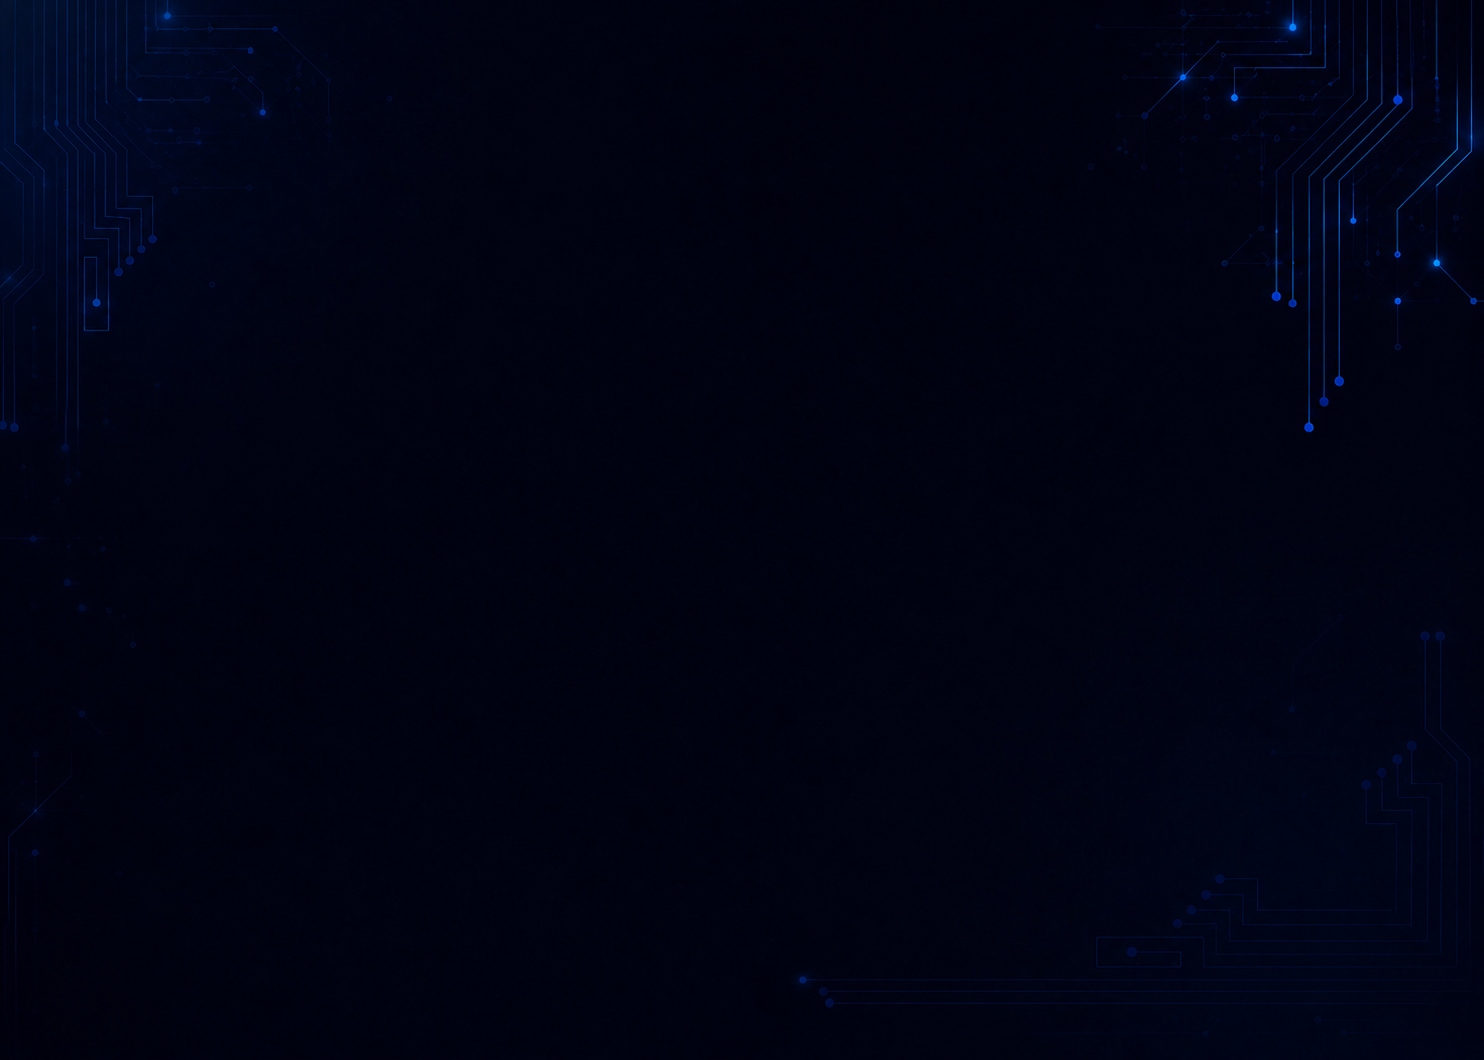
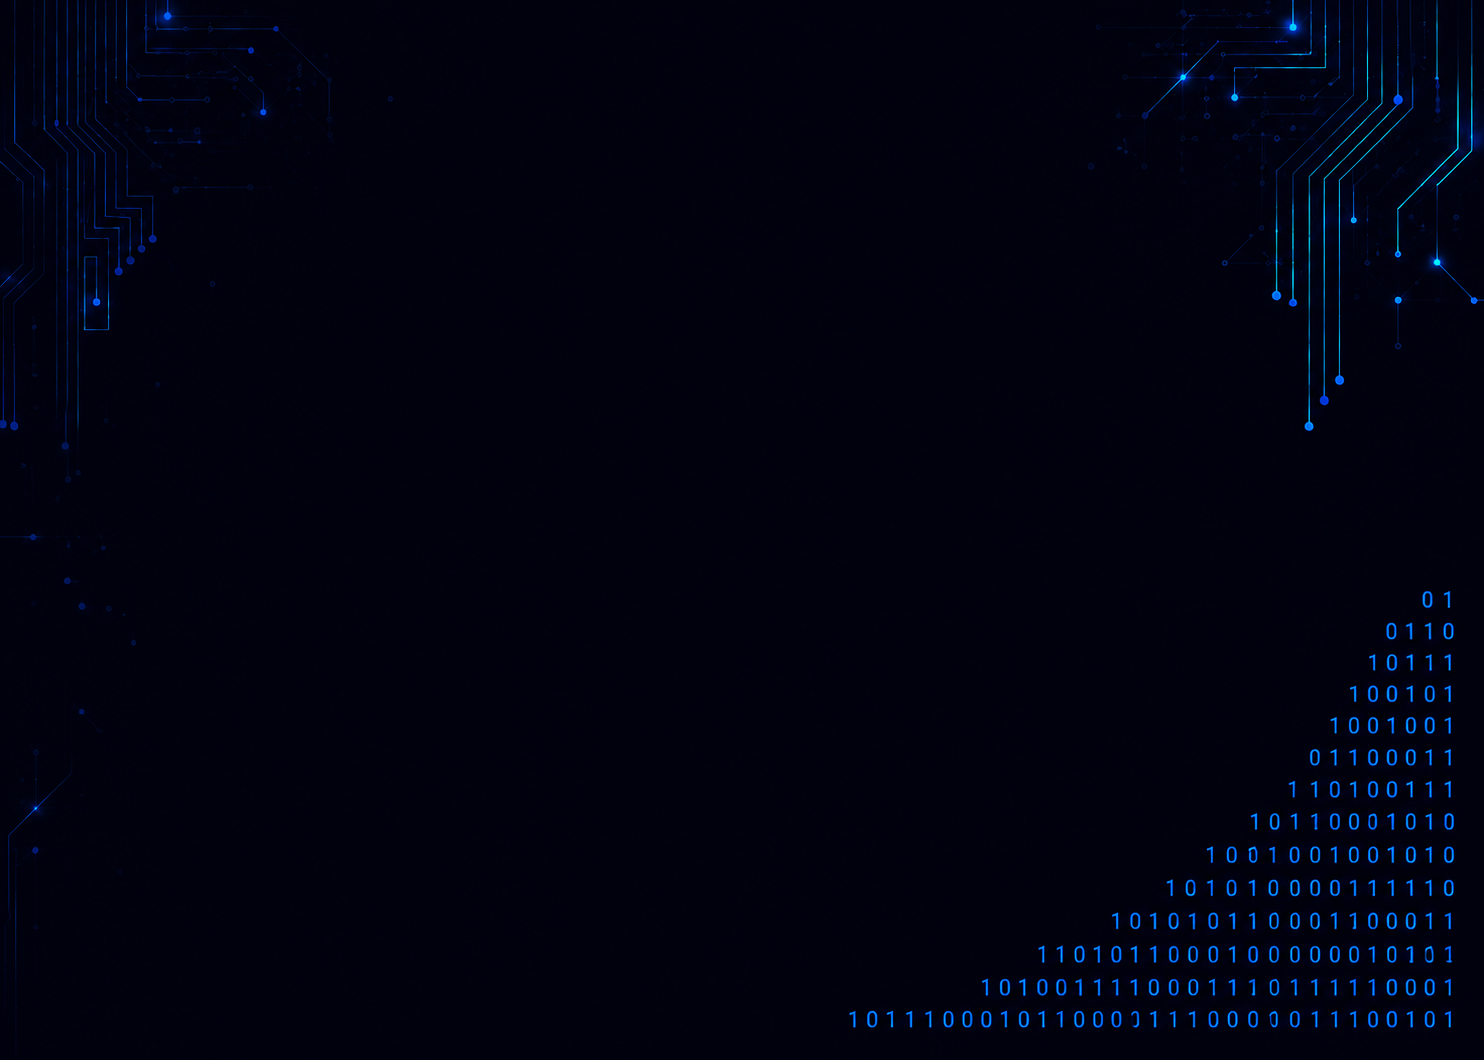
changed skills background

diff --git a/src/components/Skills.css b/src/components/Skills.css
@@ -24,7 +24,7 @@
   background-position: center;
   background-repeat: no-repeat;
 
-  filter: blur(3px);
+  filter: blur(4px);
 
   z-index: 0;
 }
